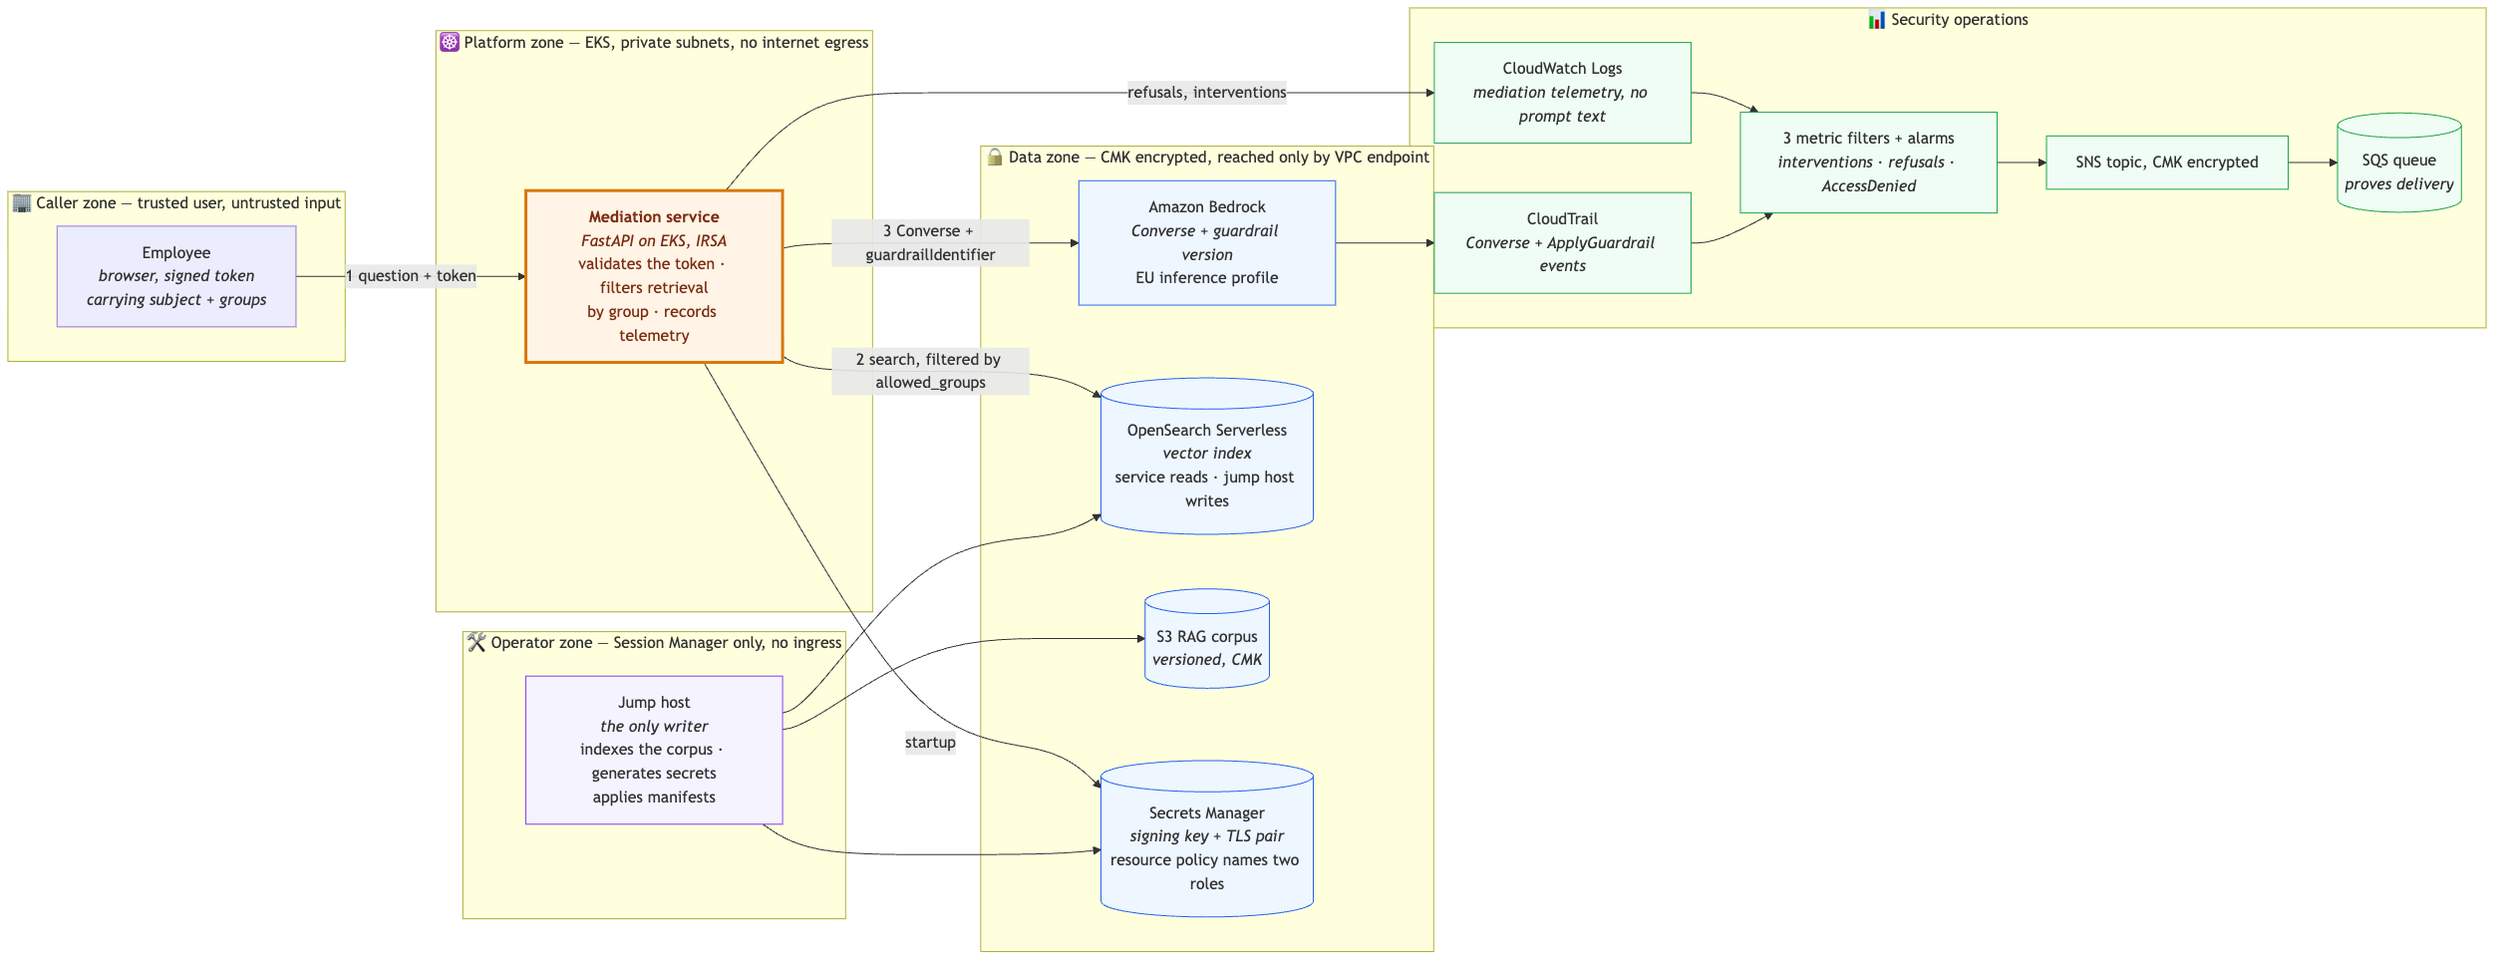
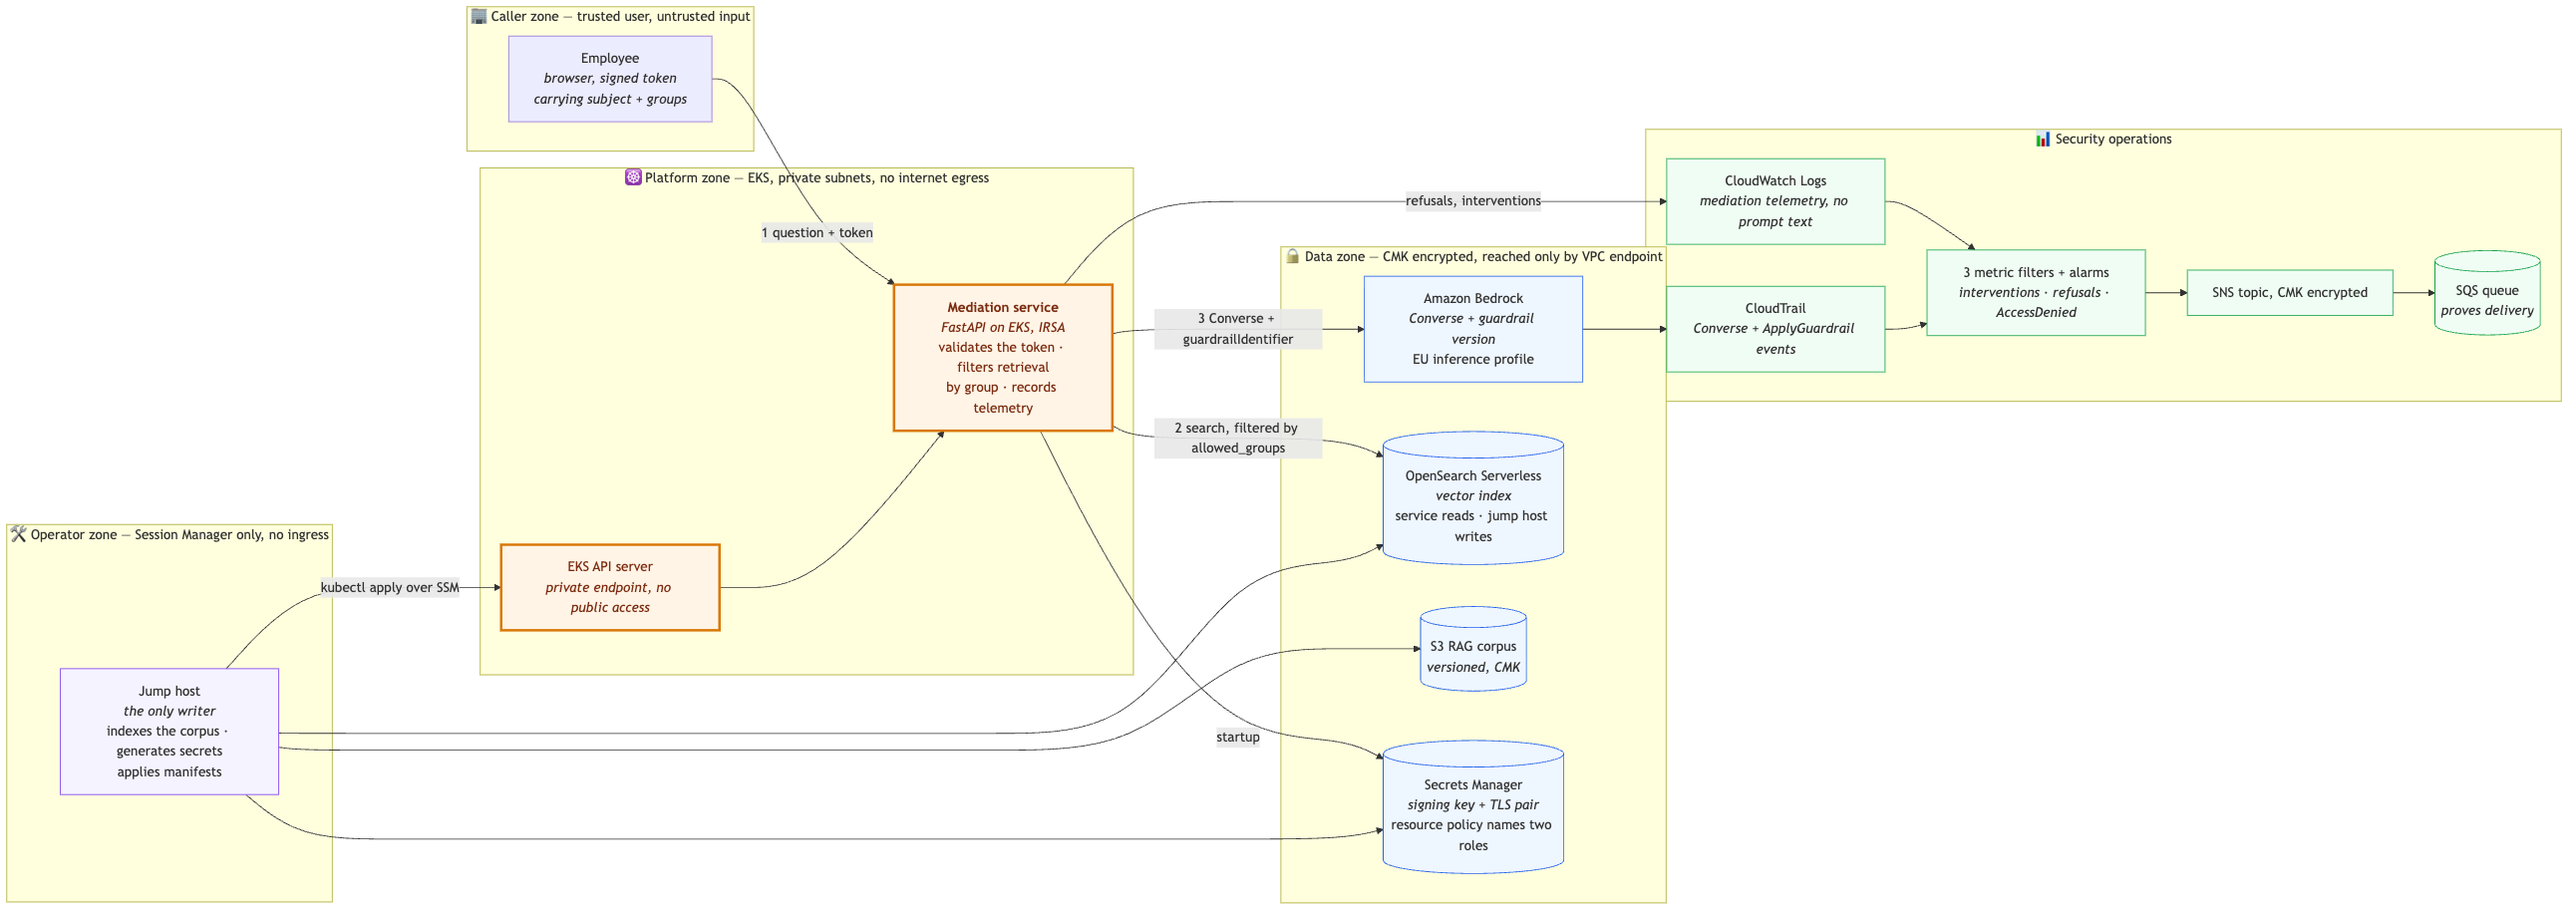
docs(diagram): draw the private EKS API server and the jump host's write path

diff --git a/docs/deliverables/Slides.md b/docs/deliverables/Slides.md
@@ -94,6 +94,9 @@ AWS Bedrock · Amazon EKS · Policy-as-code
 
 <br>
 
+**Submitted with this deck:** architecture diagram · security design summary
+(5 pages) · risk assessment, top 5 (4 pages)
+
 *Candidate submission — confidential*
 
 <!--
@@ -182,6 +185,11 @@ Walk the numbered flow: authenticate, token, mediation layer, filtered
 retrieval, model invocation with guardrail, answer with the guardrail applied
 to the response.
 
+The EKS API server is private with no public endpoint, which is why a GitHub
+runner cannot deploy here — the jump host applies the manifests over Session
+Manager. That arrow is what makes "the jump host is the only writer" visible
+rather than asserted: it writes the corpus, the secrets and the workload.
+
 Point out the absence: there is no NAT gateway. The data zone has no route to
 the internet, so exfiltration has no network path.
 -->
@@ -224,8 +232,9 @@ Risk 1 residual is deliberately marked High. Anyone claiming prompt injection
 is fully mitigated is overselling. The honest position is layered defence plus
 detection, and an assumption of eventual bypass.
 
-These are the five in risk-assessment.md, each with component, business impact
-and actions. Risk 4's detective cell is empty on purpose — that gap is named
+Say out loud that this table is one page of the four-page risk assessment they
+already have, and that each risk there carries component, business impact,
+detection and actions. Risk 4's detective cell is empty on purpose — that gap is named
 rather than papered over.
 -->
 

diff --git a/docs/deliverables/diagram/architecture.md b/docs/deliverables/diagram/architecture.md
@@ -21,6 +21,7 @@ flowchart LR
     end
 
     subgraph platform["☸ Platform zone — EKS, private subnets, no internet egress"]
+        api["EKS API server<br/><i>private endpoint, no public access</i>"]
         proxy["<b>Mediation service</b><br/><i>FastAPI on EKS, IRSA</i><br/>validates the token · filters retrieval<br/>by group · records telemetry"]
     end
 
@@ -49,6 +50,9 @@ flowchart LR
     proxy -->|"startup"| secrets
     proxy -->|"refusals, interventions"| telemetry
 
+    bastion -->|"kubectl apply over SSM"| api
+    api --> proxy
+
     bastion --> vectors
     bastion --> docs
     bastion --> secrets
@@ -67,6 +71,7 @@ flowchart LR
     class vectors,docs,bedrock,secrets store
     class telemetry,trail,alarms,sns,queue sec
     class bastion ops
+    class api control
 ```
 
 **Why the shape is this shape**
